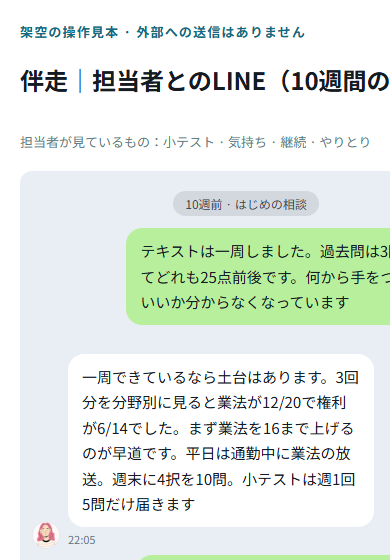
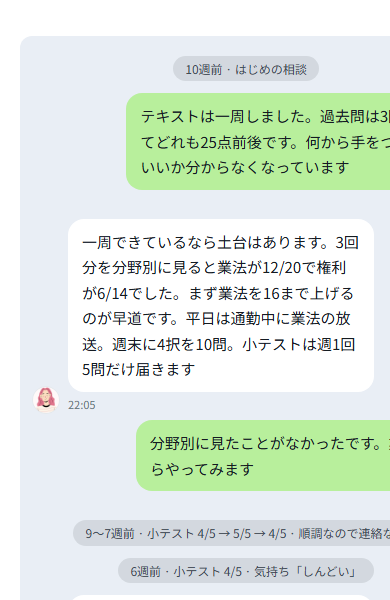
liff-test: サムネはダイアログの中身から写るように撮り直し（タイトル非表示・170px・カルテは棒グラフ位置）

diff --git a/liff-test/plans-preview.html b/liff-test/plans-preview.html
@@ -263,14 +263,14 @@ dialog h2{font-size:24px}
 }
 
 /* plan card thumbnails */
-.plan-thumb{height:150px;overflow:hidden;border:1px solid #ececec;border-radius:12px;margin:0 0 18px;background:#fff}
-.plan-thumb img{display:block;width:100%;height:auto;object-fit:cover;object-position:top}
+.plan-thumb{height:170px;overflow:hidden;border:1px solid #ececec;border-radius:12px;margin:0 0 18px;background:#fff}
+.plan-thumb img{display:block;width:100%;height:auto;object-fit:cover;object-position:top}#ume .plan-thumb img{margin-top:-118px}
 @media(max-width:600px){.plan-thumb{height:130px}}
 
 /* thumbnail capture mode */
 .thumb-mode main>section,.thumb-mode header,.thumb-mode .preview,.thumb-mode footer{display:none}
 .thumb-mode #preview-dialog{position:static;margin:0;width:100%;max-width:none;border:0;border-radius:0;box-shadow:none;max-height:none;overflow:visible;padding:20px}
-.thumb-mode #close-preview{display:none}
+.thumb-mode #close-preview{display:none}.thumb-mode #dialog-title,.thumb-mode #preview-dialog>.label,.thumb-mode .report-kicker{display:none}.thumb-mode #dialog-body{margin-top:0}
 </style></head><body><div class="preview"><div class="wrap">2027年度プランの表示見本｜価格・内容は仮案です。登録・購入はできません。</div></div><header><div class="wrap"><p>耳で覚える宅建</p></div></header><main><section class="hero"><div class="wrap"><p class="kicker">耳で覚える宅建 2027｜サービス一覧</p><h1><span class="lime-mark">続けるための学習サポート</span></h1><p class="lead">手持ちの教材はそのままに、学習のペースを作ります。無料の学習便から、人がつく伴走まで。</p><nav class="plan-index" aria-label="サービス一覧"><a href="#free"><span class="plan-dot dot-free">学習便</span><span class="plan-desc">毎週、図解と問題が届く</span></a><a href="#ume"><span class="plan-dot dot-ume">学習カルテ</span><span class="plan-desc">弱点が見える記録</span></a><a href="#take"><span class="plan-dot dot-take">学習ナビ</span><span class="plan-desc">今週やることを決める</span></a><a href="#matsu"><span class="plan-dot dot-matsu">伴走</span><span class="plan-desc">担当者がついて10週間</span></a></nav><details><summary>この見本について</summary><p>今年の教材・伴走運用を土台にした検討用の見本です。2026年度の終了後に成果・受講者の声・運用負担を検証してから、2027年度の本設計へ進みます。○は含める案で、提供済みの機能ではありません。価格は目安。学習支援はその年の本試験まで、<span class="plan-dot dot-matsu">伴走</span>の個別対応は直前10週間を基本とする案です。見本の数字・回答・コメントはすべて架空です。</p></details></div></section><section class="section soft" id="free"><div class="wrap"><p class="overline">01 学習便（無料）</p><h2>聴いた回を、図解と問題で</h2><p class="lead-center">毎週の放送に合わせて要点図解と確認問題が届きます。答えると復習ポイントも出ます。</p><div class="free-points"><div><strong>図解</strong><span>要点を整理</span></div><div><strong>問題</strong><span>理解を確認</span></div><div><strong>音声</strong><span>もう一度復習</span></div></div><figure class="zukai"><img src="img/zukai_sample.webp" alt="毎週届く図解の例" loading="lazy"><figcaption>毎週届く図解の例</figcaption></figure><div class="actions"><button type="button" class="primary" data-demo="line">LINEで受け取る</button><button type="button" class="secondary" data-demo="mail">メールで受け取る</button></div><p class="note">LINEでもメールでも無料。内容は同じです。</p><button type="button" class="textbutton free-open" data-report="free">無料の見本を見る →</button></div></section><section class="section" id="plans"><div class="wrap"><p class="overline">02 プラン</p><h2>わかる<span class="h1-arrow" aria-hidden="true">→</span>つづく<span class="h1-arrow" aria-hidden="true">→</span>支える</h2><p class="plan-lead">学習カルテ → 学習ナビ → 伴走の順にできることが増えます。あとから差額で変更できます。見本は同じ受験生の架空例です。</p><article class="card plan-card" id="ume"><div class="plan-thumb"><img src="img/thumb-karte.png" alt="" loading="lazy"></div><div class="plan-top"><span class="plan-axis"><span class="plan-dot dot-ume">学習カルテ</span></span><span class="plan-price">4,980円<small>価格案 · その年の本試験まで</small></span></div><h3>弱点が見えてくる</h3><ul class="plan-list"><li>聴いた回の○×と問題演習。回答は全部残る</li><li>分野別・論点別の正答率で弱点が見える</li><li>模試も分野別に分析。弱い論点の放送へ戻れる</li></ul><div class="plan-actions"><button type="button" class="primary" data-report="weak">見本を見る</button><div class="plan-links"><button type="button" data-report="score">模試レポート</button></div></div><details class="more"><summary>詳しく</summary><dl><dt>問題を解いて履歴を残す</dt><dd>Podcast連動の○×と通常の問題演習。回答を論点ごとにためます。間違えた過去問も記録する構想です。</dd><dt>弱点を見える形にする</dt><dd>分野別・論点別の正答率と弱点論点を表示します。○×と4択は分けて集計。初回と再挑戦も分けます。</dd><dt>模試を復習につなぐ</dt><dd>対応する模試の問題別結果を分析します。弱点に関係する放送や解説へ自分で戻れます。</dd></dl><p class="detail-note">4,980円は価格案。利用はその年の本試験まで。対応する模試と問題の範囲は検討中です。</p></details></article><article class="card plan-card take" id="take"><div class="plan-thumb"><img src="img/thumb-navi.png" alt="" loading="lazy"></div><div class="plan-top"><span class="plan-axis"><span class="plan-dot dot-take">学習ナビ</span></span><span class="plan-price">14,800円<small>価格案 · その年の本試験まで</small></span></div><h3>次の一手が決まる</h3><p class="plan-includes"><span class="plan-dot dot-ume">学習カルテ</span>のすべて ＋</p><ul class="plan-list"><li>使える時間に合わせて今日と今週のメニューを提案</li><li>週次レポートと模試の推移で変化が見える</li><li>直前30日は毎朝その日の音声とメニューが届く</li></ul><div class="plan-actions"><button type="button" class="primary" data-report="today">見本を見る</button><div class="plan-links"><button type="button" data-report="trend">継続レポート</button><button type="button" data-report="program">直前30日プログラム</button><button type="button" data-report="roadmap">逆算プラン〈追加案〉</button><button type="button" data-report="audio">音声問題演習</button></div></div><details class="more"><summary>詳しく</summary><dl><dt>今週やることが決まる</dt><dd>回答履歴と使える時間から今週の学習と重点論点を自動で提案します。結果は次の提案に反映する構想です。</dd><dt>耳でも問題演習</dt><dd>問題を聴く。答えを考える。解説を聴く。画面を見づらい時間にも進められます。</dd><dt>止まっても戻れる入口</dt><dd>しばらく回答がないとき短い復習1問だけ届く案です。通知は止められます。条件と頻度は検討中。</dd><dt>直前期は週1回の確認</dt><dd>本試験までの約10週間に小テストと翌週のヒントを届ける案です。問題数と形式は検討中。</dd><dt>進み具合を振り返る</dt><dd>模試の推移・ヒートマップ・週次レポートで変化と次の優先順位を確認します。</dd><dt>直前30日は毎朝のメニュー</dt><dd>その日の音声と学習メニューが届く「ラスト30日プログラム」を含める案です。今年のロードマップ・限定音声12本・最終チェック・千本ノックが土台。</dd></dl><p class="scope-note"><strong>追加案：</strong>残り期間からの逆算ナビと月次レポート。毎朝の共通メニューと個人のナビをどうつなぐかは検討中です。</p><p class="detail-note">14,800円は価格案。利用はその年の本試験まで。PDF教材は単品販売を残します。ラスト30日プログラムは学習ナビに含める方針です。</p></details></article><article class="card plan-card matsu" id="matsu"><div class="plan-badges"><span class="plan-badge">LIMITED · 10名まで</span><span class="plan-badge">Coming soon · 夏募集予定</span></div><div class="plan-thumb"><img src="img/thumb-bansou.png" alt="" loading="lazy"></div><div class="plan-top"><span class="plan-axis"><span class="plan-dot dot-matsu">伴走</span></span><span class="plan-price">39,800円<small>価格案 · 個別伴走は直前10週間</small></span></div><h3>見ている人がいる</h3><p class="plan-includes"><span class="plan-dot dot-take">学習ナビ</span>のすべて ＋ 当年度の対象教材（案）</p><ul class="plan-list"><li>担当者が点数と気持ちを毎週確認。止まりかけたら声をかける</li><li>事情を聞いて量や順番を一緒に組み直す</li><li>本試験までの直前10週間。順調なら静かに見守る</li></ul><div class="plan-actions"><button type="button" class="primary" data-report="comment">見本を見る</button><div class="plan-links"><button type="button" data-report="adjust">計画を組み直した例</button></div></div><details class="more"><summary>詳しく</summary><dl><dt>点数も気持ちも見る</dt><dd>小テストの点数・継続状況・気持ち・最近のやりとりを担当者が確認します。数字に出ない負担にも目を向けます。</dd><dt>必要なときに声がかかる</dt><dd>止まりかけたときや困っているときは担当者から個別LINEで連絡します。順調なときは連絡しません。</dd><dt>一緒に計画を組み直す</dt><dd>仕事や家庭の事情を聞いて量・順番・優先順位を決め直します。模試にはコメントを添えます。</dd></dl><p class="scope-note"><strong>連絡の目安：</strong>週1回は状況を見ます。連絡するのは必要なときだけ。</p><p class="detail-note">39,800円は価格案。夏に募集開始。定員10名。個別伴走は本試験までの直前10週間です。募集日・途中加入の期限・対応時間・相談範囲は検討中。</p></details><button type="button" class="secondary" data-demo="priority">募集の優先案内を受け取る</button><p class="note">一般募集より先にお知らせします。席の予約ではありません。</p></article></div></section><section class="section" id="comparison"><div class="wrap"><p class="overline">03 比べる</p><h2>ひと目で比べる</h2><div class="compare-wrap"><table class="compare-table"><thead><tr><th scope="col">できること</th><th scope="col"><span class="plan-dot dot-free">学習便</span><span class="compare-head-price">0円</span></th><th scope="col"><span class="plan-dot dot-ume">学習カルテ</span><span class="compare-head-price">4,980円</span></th><th scope="col"><span class="plan-dot dot-take">学習ナビ</span><span class="compare-head-price">14,800円</span></th><th scope="col"><span class="plan-dot dot-matsu">伴走</span><span class="compare-head-price">39,800円</span></th></tr></thead><tbody><tr><th scope="row">毎週の図解と問題・今回のカルテ</th><td><span class="compare-yes">○</span></td><td><span class="compare-yes">○</span></td><td><span class="compare-yes">○</span></td><td><span class="compare-yes">○</span></td></tr><tr><th scope="row">問題演習・履歴の保存</th><td>—</td><td><span class="compare-yes">○</span></td><td><span class="compare-yes">○</span></td><td><span class="compare-yes">○</span></td></tr><tr><th scope="row">弱点・模試の分析</th><td>—</td><td><span class="compare-yes">○</span></td><td><span class="compare-yes">○</span></td><td><span class="compare-yes">○</span></td></tr><tr><th scope="row">次の学習提案・音声問題演習</th><td>—</td><td>—</td><td><span class="compare-yes">○</span></td><td><span class="compare-yes">○</span></td></tr><tr><th scope="row">週次レポート・模試推移・ヒートマップ</th><td>—</td><td>—</td><td><span class="compare-yes">○</span></td><td><span class="compare-yes">○</span></td></tr><tr><th scope="row">直前30日の毎朝メニュー</th><td>—</td><td>—</td><td><span class="compare-yes">○</span></td><td><span class="compare-yes">○</span></td></tr><tr><th scope="row">担当者の見守り・個別コメント</th><td>—</td><td>—</td><td>—</td><td><span class="compare-yes">○</span></td></tr><tr><th scope="row">個別相談・学習計画の調整</th><td>—</td><td>—</td><td>—</td><td><span class="compare-yes">○</span></td></tr></tbody></table></div><p class="compare-note">逆算ナビと月次レポート（学習ナビ・伴走）は追加案。直前10週の週1小テスト（学習ナビ・伴走）は検討中。PDF教材は単品でも買えます。伴走には含める案。</p></div></section><section class="section soft" id="terms"><div class="wrap"><p class="overline">04 利用について</p><h2>あとから増やせる</h2><dl class="terms-list"><dt>差額でランクアップ</dt><dd><span class="plan-dot dot-ume">学習カルテ</span>から<span class="plan-dot dot-take">学習ナビ</span>・<span class="plan-dot dot-matsu">伴走</span>へ。<span class="plan-dot dot-take">学習ナビ</span>から<span class="plan-dot dot-matsu">伴走</span>へ。回答履歴はそのまま引き継ぎます。<span class="plan-dot dot-matsu">伴走</span>は夏に募集。満員のときは空き次第です。</dd><dt>教材だけ、30日だけでも</dt><dd>PDF教材とラスト30日プログラムは単品でも買えます。<span class="plan-dot dot-matsu">伴走</span>には当年度の対象教材を含める方針。買った分は差し引く案です。</dd><dt>学習支援はその年の本試験まで</dt><dd><span class="plan-dot dot-ume">学習カルテ</span>・<span class="plan-dot dot-take">学習ナビ</span>は加入した日から。<span class="plan-dot dot-matsu">伴走</span>の個別対応は直前10週間。途中加入でも終了日は同じです。</dd><dt>試験後は記録を手元に</dt><dd>年内をめどにカルテを見られます。PDFで保存できるようにする案。消す前にお知らせします。</dd></dl><div class="card season-card"><h3>季節で学び方も変わる</h3><p>冬〜春は前年の人気回とゆるいコラム。</p><p>夏は役立つコラムと息抜き。戻るきっかけに。</p><p>直前期は実戦形式の問題と復習。</p></div><details><summary>LINEとメール、どちらでも</summary><p>どちらも無料で内容は同じ。スマホならLINE。PCならメール。両方でも構いません。同じ学習ページを使い<span class="plan-dot dot-ume">学習カルテ</span>以上は同じカルテに記録が集まる構想です。</p><p class="detail-note">問題の入口は無料音声で1問。登録後に共通の1問を含む3問という案を検討中です。音声だけでも答えと解説まで聴ける形を考えています。</p></details><details><summary>これから詰める条件</summary><p>教材の対象範囲と控除額。割引購入時の差額。30日単品からの移行。<span class="plan-dot dot-matsu">伴走</span>の募集日と途中加入の期限。試験後の閲覧期限と保存形式。いずれも検討中です。</p></details><details class="open-questions"><summary>今年の終了後に検証すること</summary><p>今年の実績・受講者の声・支援の記録を振り返ります。どの支援が継続と再開に役立ったかを確かめてから本設計へ進みます。</p><ul><li>無料チェックが登録と再訪につながるか。保存なしの体験と有料案内のタイミング。</li><li><span class="plan-dot dot-take">学習ナビ</span>で自動化できる支援と人の判断が要る支援。逆算ナビと週次・月次レポートの役割。</li><li>直前30日の既存メニューと個人ナビのつなぎ方。<span class="plan-dot dot-matsu">伴走</span>に含める教材と既購入者の控除額。</li><li>各プランの正式価格と運用負担。伴走10名を直前10週間支えられる範囲。</li></ul><p>今は販売条件を決める段階ではありません。今年の学びを検証できる形にした仮案です。</p></details></div></section><dialog id="preview-dialog" aria-labelledby="dialog-title"><button type="button" id="close-preview" class="secondary">閉じる</button><p class="label">架空の操作見本 · 外部への送信はありません</p><h2 id="dialog-title"></h2><div id="dialog-body"></div></dialog></main><footer><div class="wrap"><p>静かに、淡々と。</p><a href="ep10-preview.html">定着3問チェックに戻る</a></div></footer><script>
 'use strict';
 const demoDialog=document.getElementById('preview-dialog');
